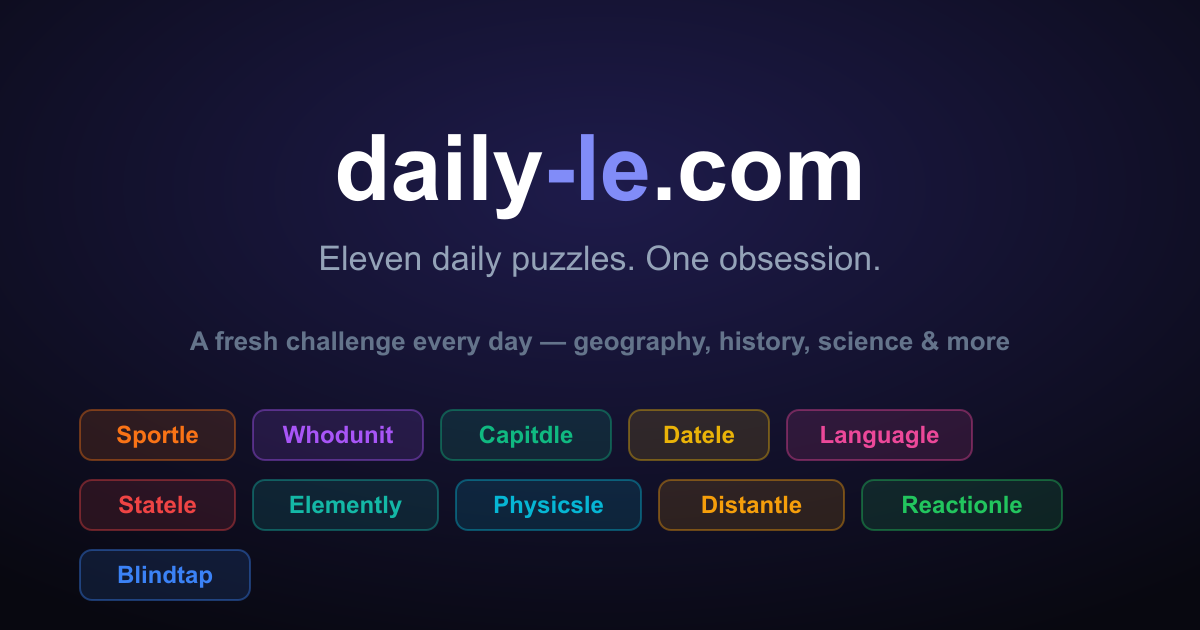
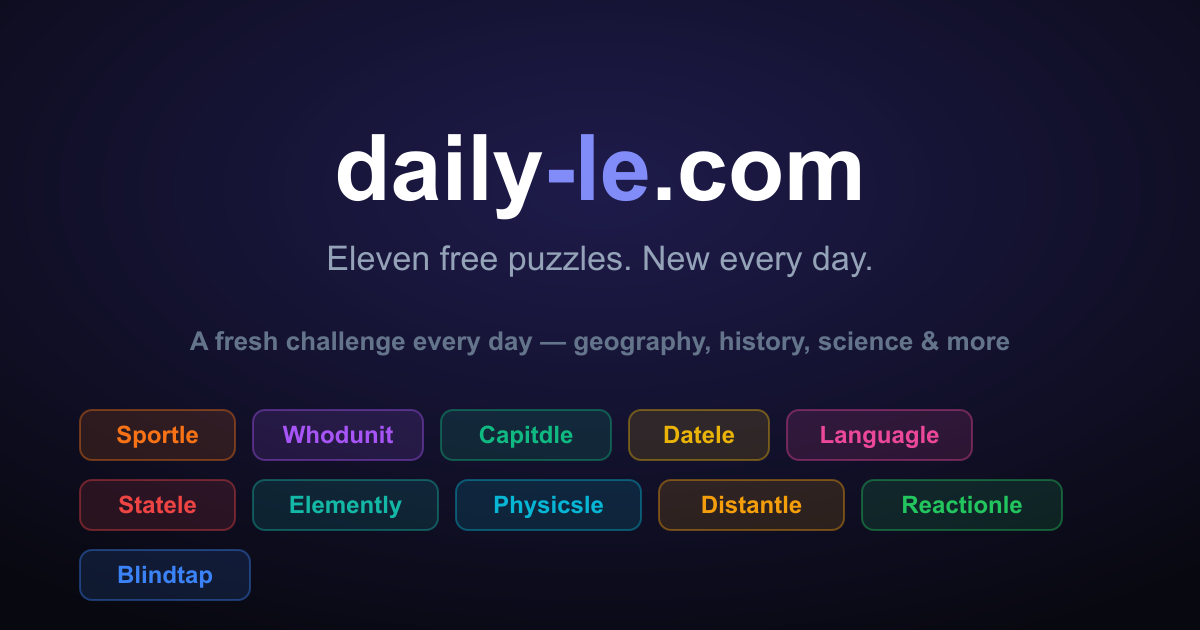
Update tagline to 'Eleven free puzzles. New every day.'

Changed region(s): [[0.2467, 0.3921, 0.74, 0.4524]]

diff --git a/src/routes/+page.svelte b/src/routes/+page.svelte
@@ -50,7 +50,7 @@
       <h1 class="text-4xl font-extrabold text-white tracking-tight mb-2">
         daily<span class="text-indigo-400">-le</span>.com
       </h1>
-      <p class="text-slate-400 text-sm">Eleven daily puzzles. One obsession.</p>
+      <p class="text-slate-400 text-sm">Eleven free puzzles. New every day.</p>
       <div class="mt-4 inline-flex items-center gap-2 px-3 py-1.5 rounded-full text-xs font-semibold bg-white/5 border border-white/10 text-slate-300">
         Day #{dayNumber} &nbsp;·&nbsp; {playedCount}/11 played today
       </div>
